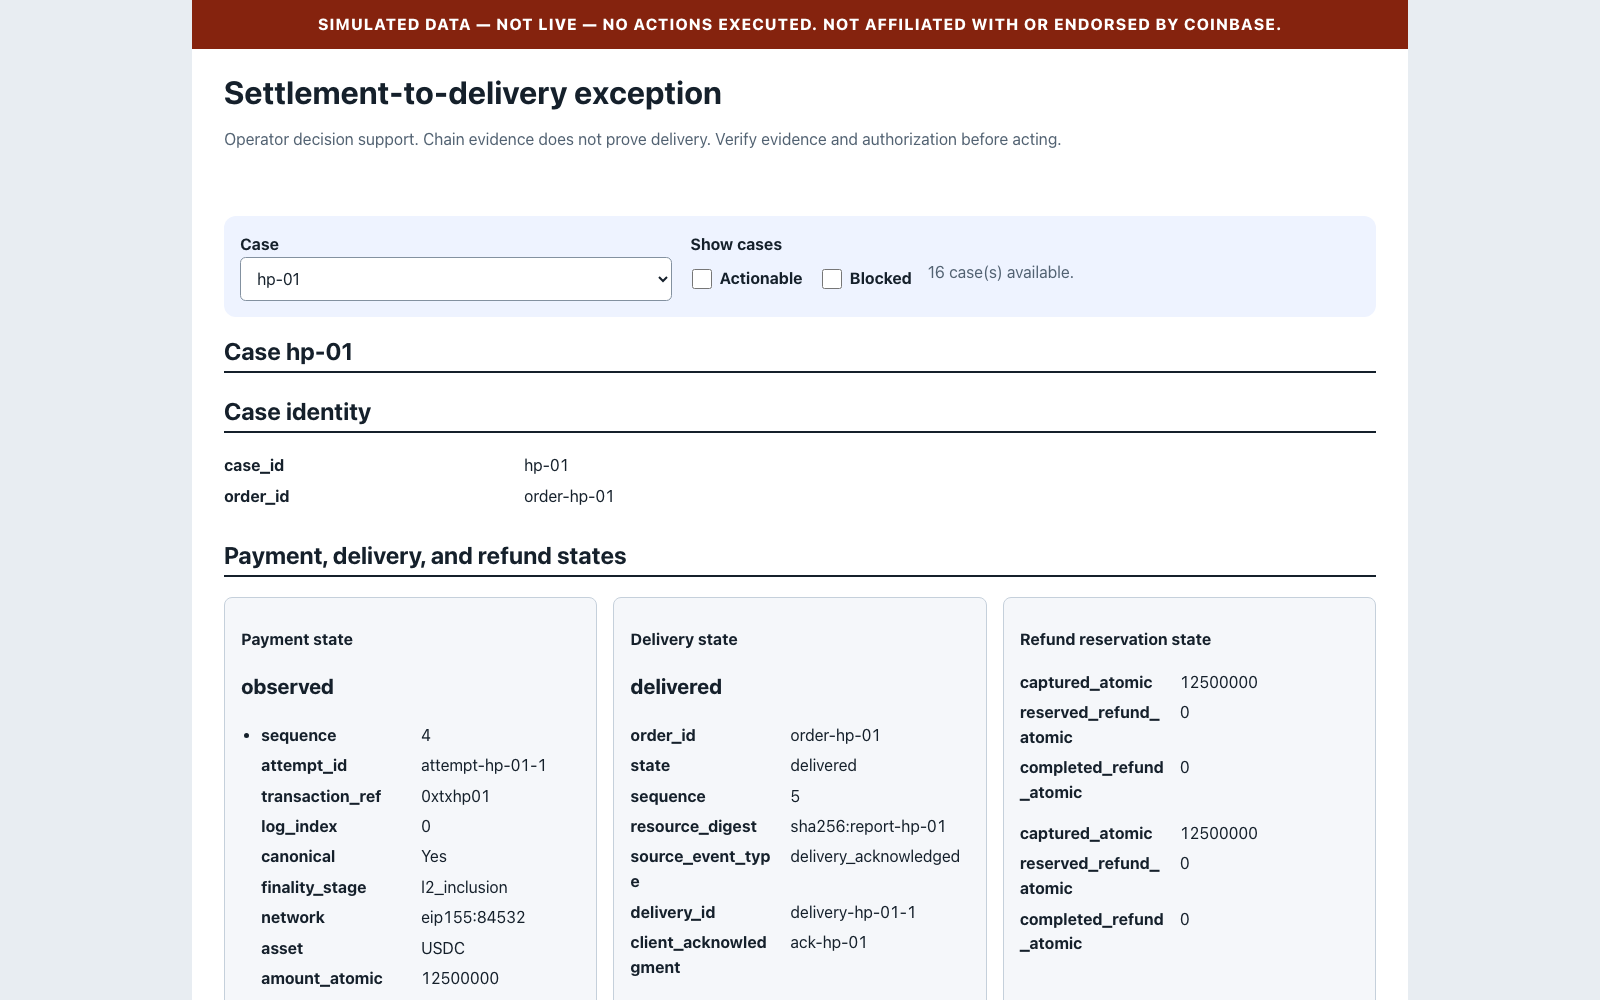
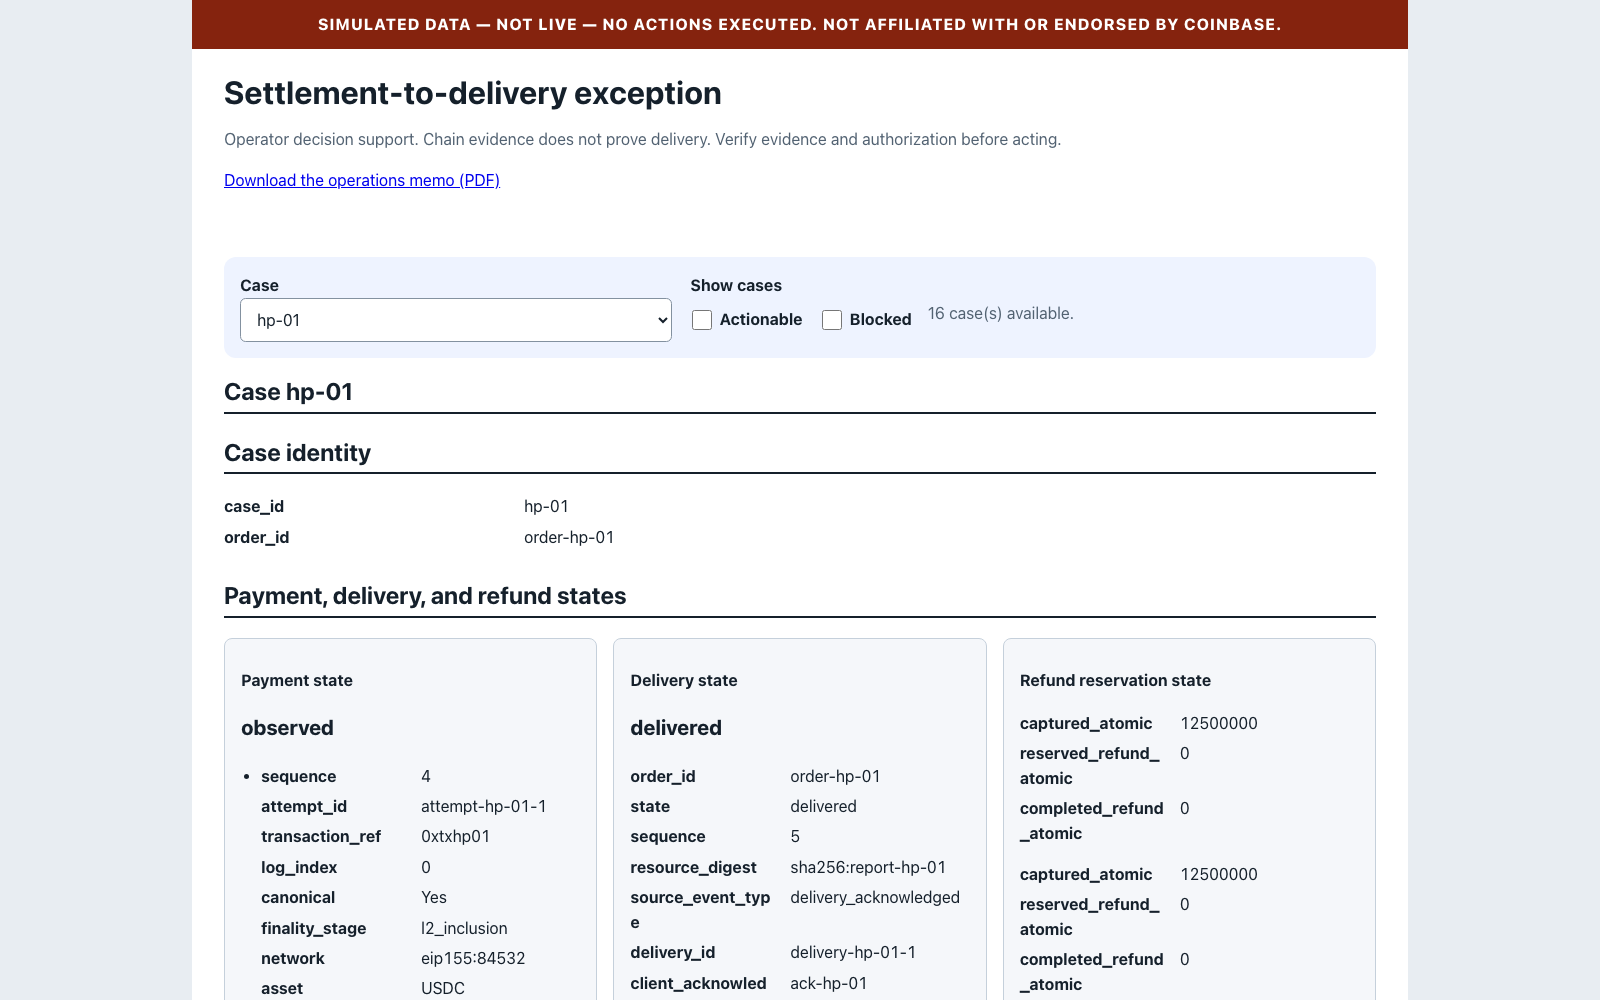
Publish the operations memo PDF on the site and link it from the report

diff --git a/src/exception_desk/export.py b/src/exception_desk/export.py
@@ -254,6 +254,7 @@ def render_operator_report(projection: Mapping[str, Any], exception: Mapping[str
     <p class="simulation-label">SIMULATED DATA — NOT LIVE — NO ACTIONS EXECUTED. NOT AFFILIATED WITH OR ENDORSED BY COINBASE.</p>
     <h1>{title}</h1>
     <p class="subtitle">Operator decision support. Verify evidence and authorization before acting.</p>
+    <p><a href="operations-memo.pdf">Download the operations memo (PDF)</a></p>
   </header>
   <main id="case-workspace" tabindex="-1">{toolbar}{panels}{policy}</main>
   <footer>SIMULATED • Independent synthetic case study • Not affiliated with or endorsed by Coinbase • No live actions</footer>

diff --git a/tests/test_export.py b/tests/test_export.py
@@ -101,6 +101,7 @@ class OperatorReportTests(unittest.TestCase):
             'aria-live="polite"',
             'aria-describedby="unsafe-help-0"',
             'href="#case-workspace"',
+            'href="operations-memo.pdf"',
             '<caption>Queue policy outcomes</caption>',
             'scope="col"',
         ):

diff --git a/CHANGELOG.md b/CHANGELOG.md
@@ -15,6 +15,6 @@
 - Value-weighted overdue time is shown in USDC-minutes in the report, README, memo, and workbook.
 - The report, memo, and README state that the project is not affiliated with or endorsed by Coinbase.
 - The repository is renamed to `x402-exception-desk`, and the release archive is now `outputs/x402-exception-desk-package.zip`.
-- The operator report has link-preview metadata, a favicon, and a social card.
+- The operator report has link-preview metadata, a favicon, a social card, and a link to the memo PDF, which the site now publishes.
 - The memo PDF builds with fixed dates and document ID, so rebuilds are byte-identical.
 - A weekly link check and Dependabot updates for GitHub Actions run in CI.
